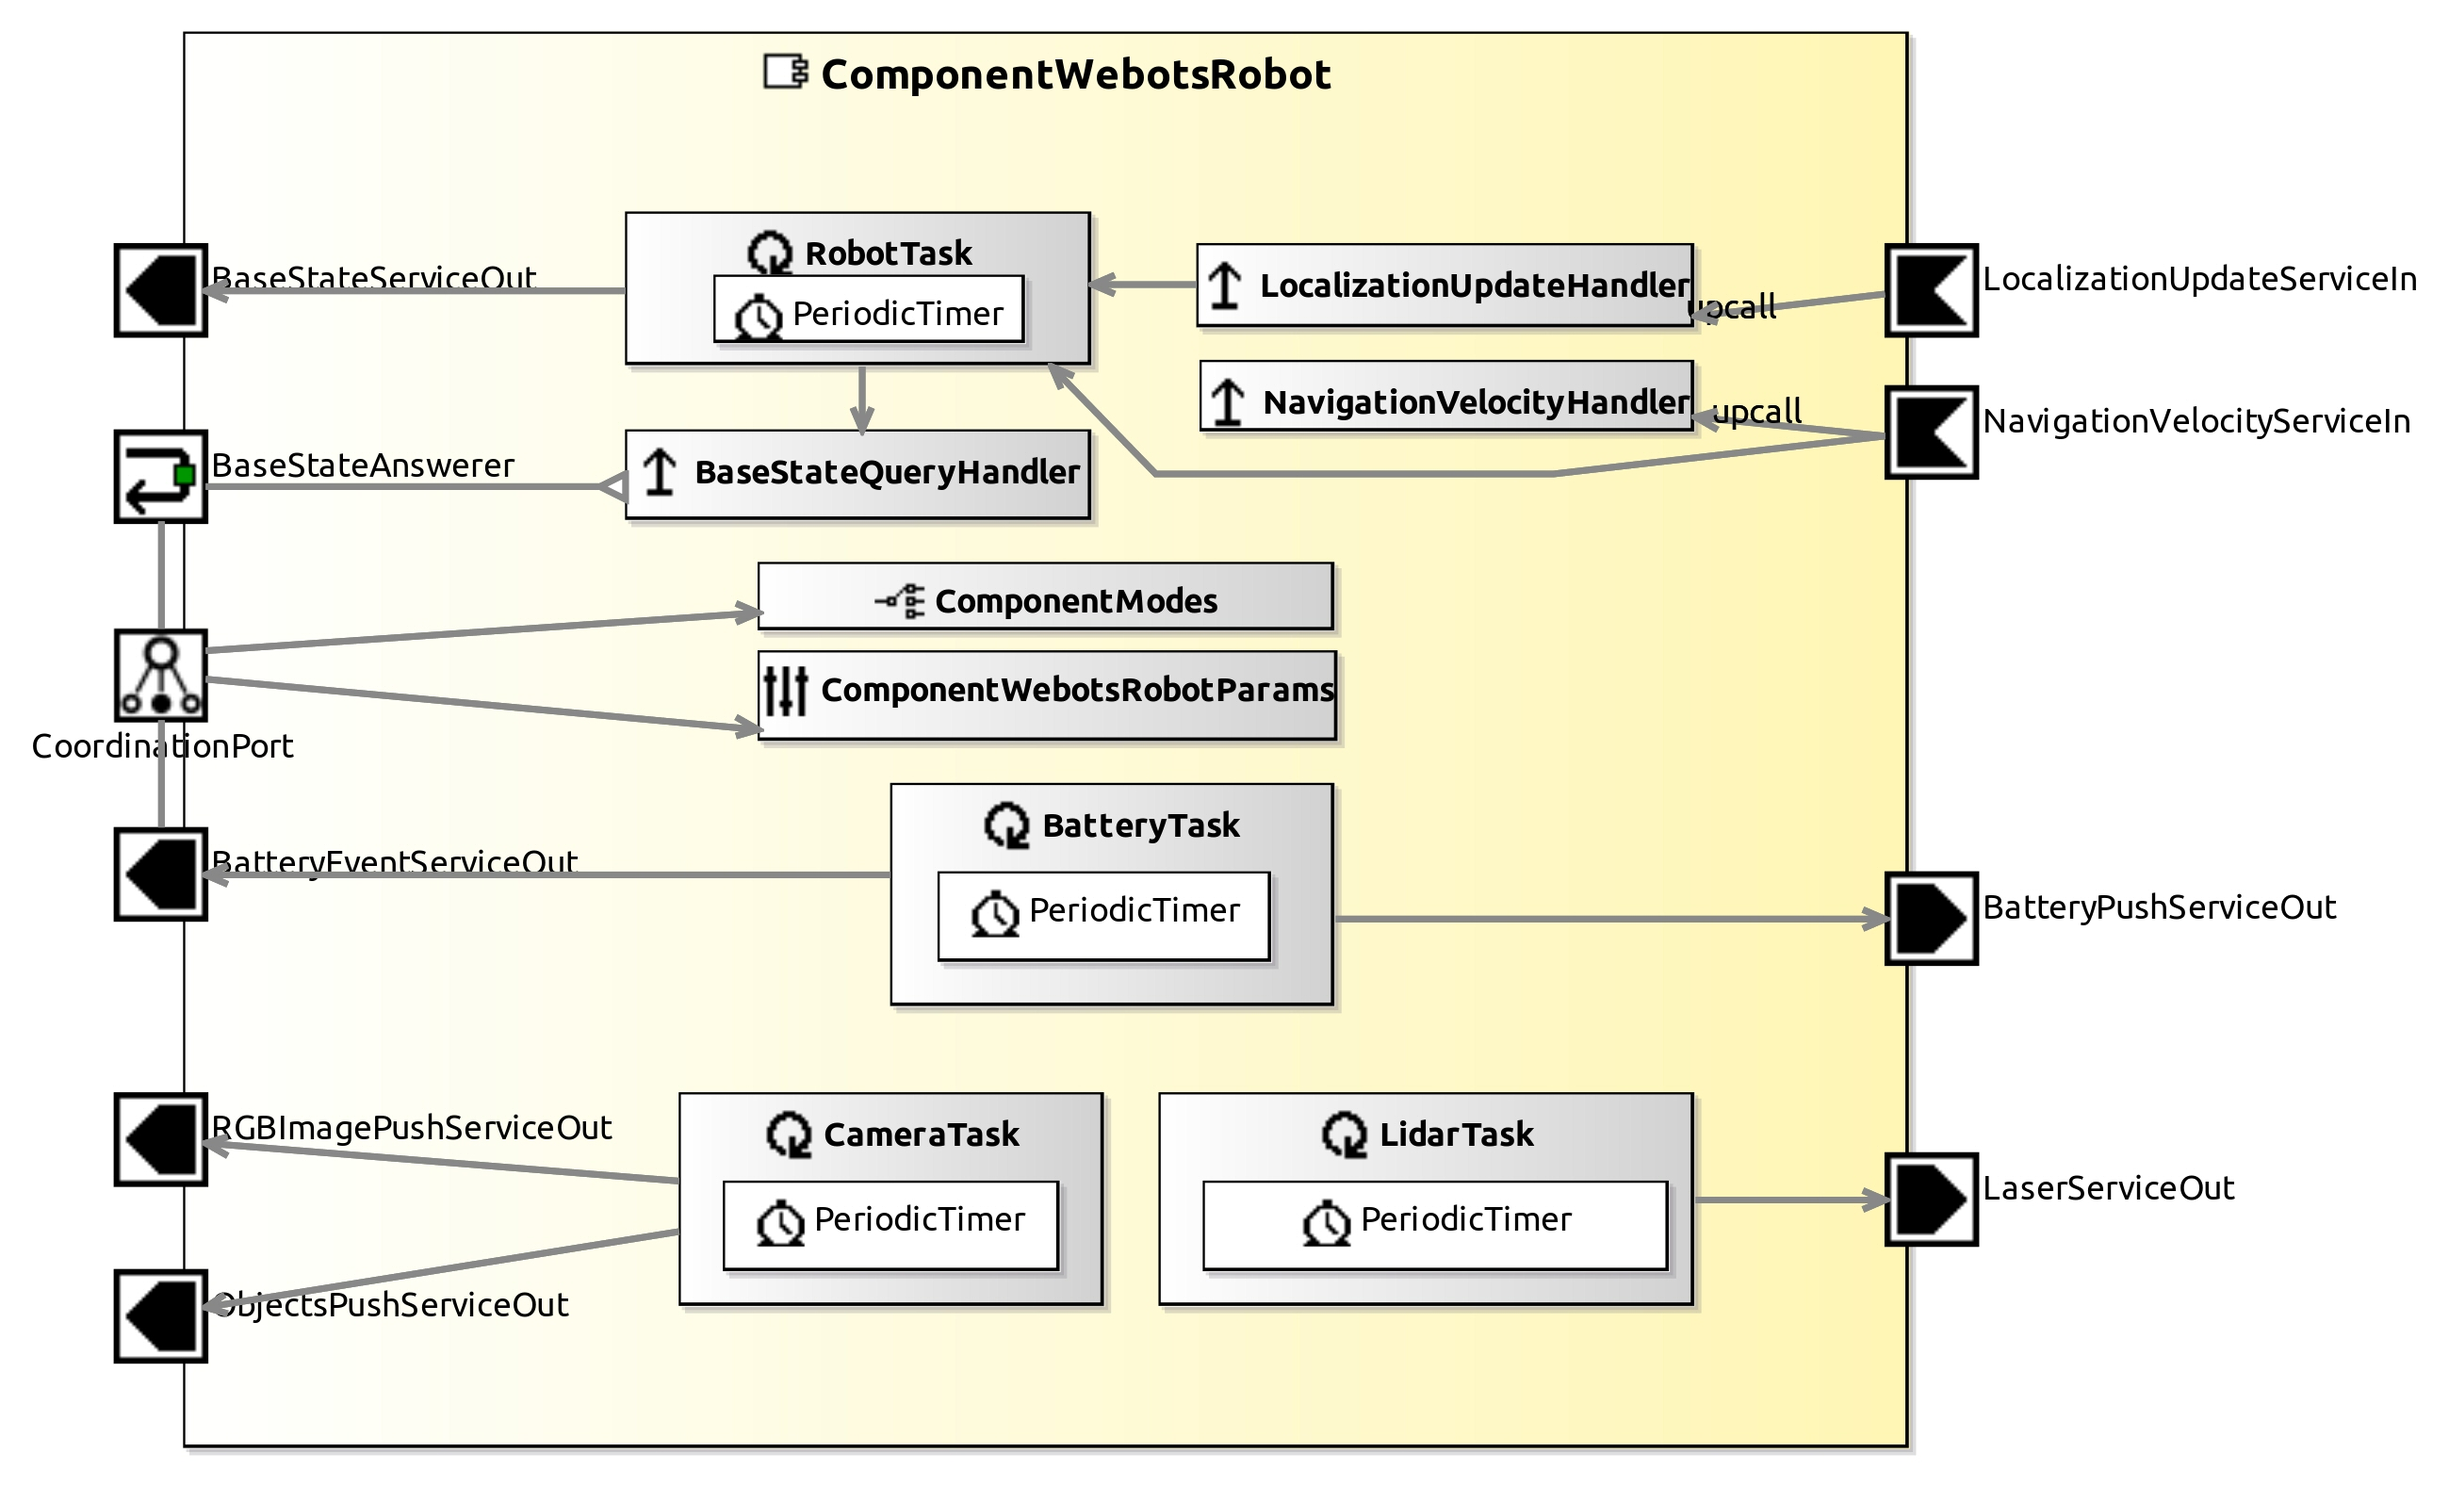
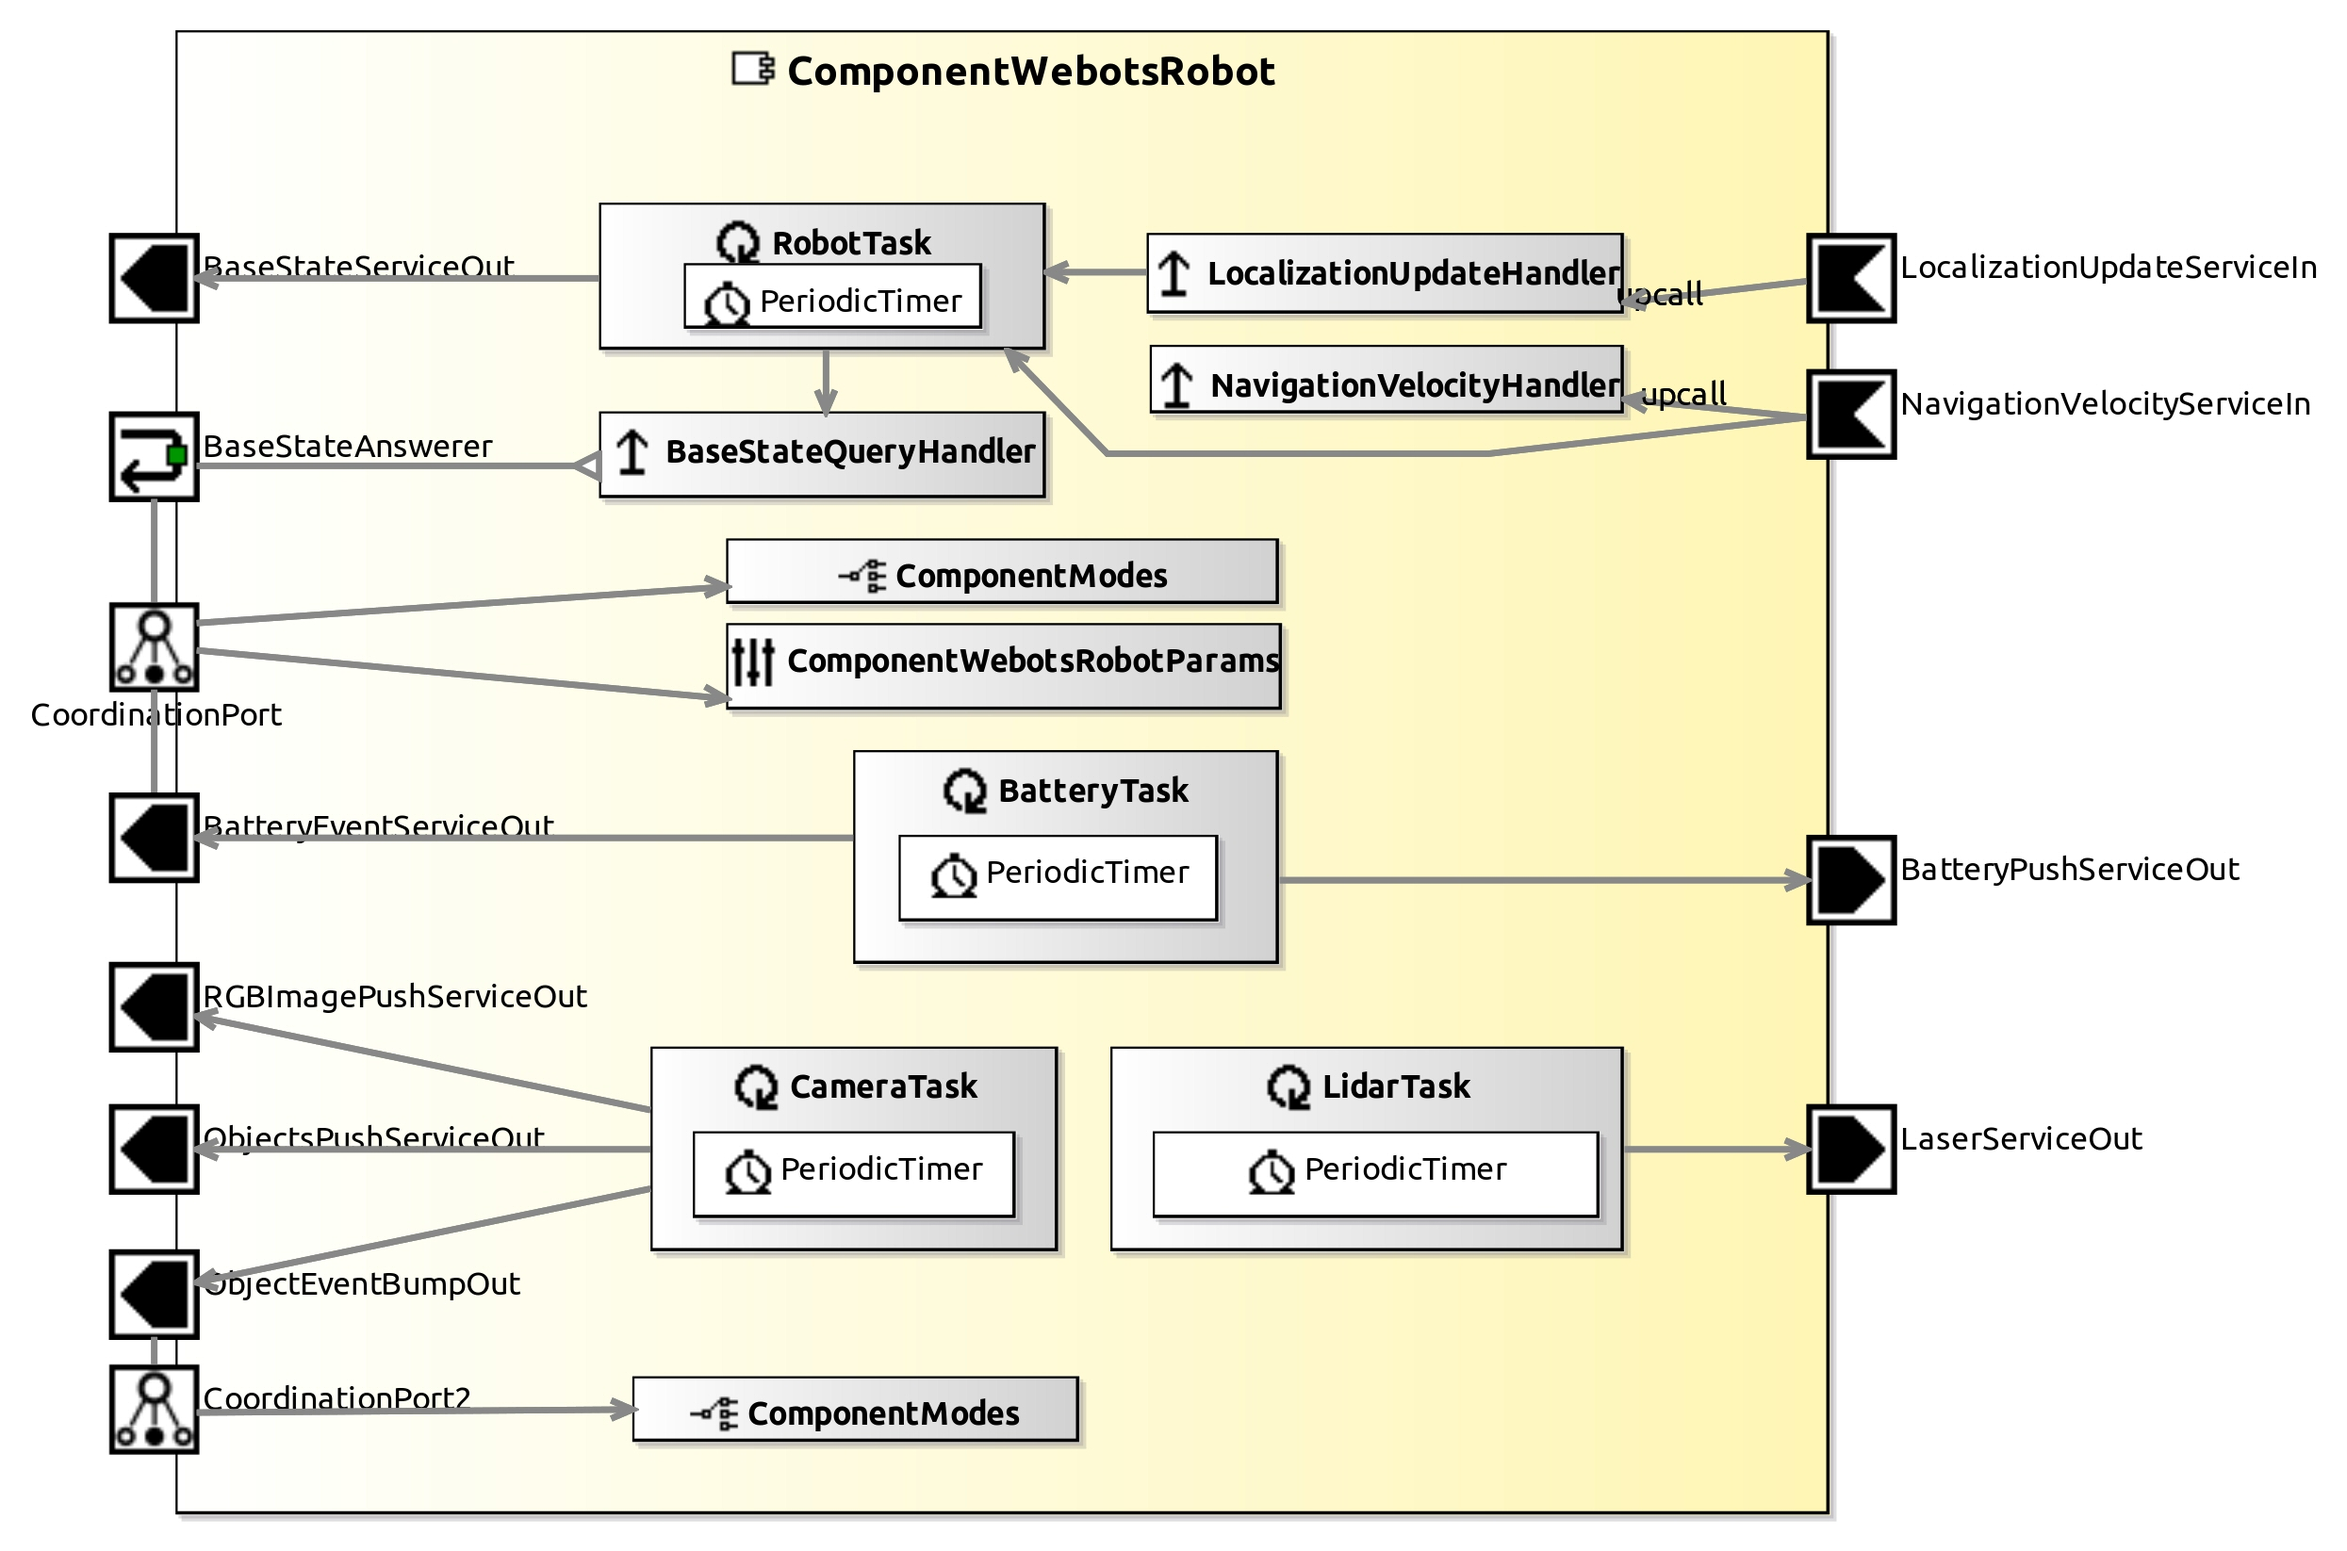
add object bump event

Changed region(s): [[0.0309, 0.1243, 0.9896, 0.9943], [0.0928, 0.0, 0.7731, 0.0621]]

diff --git a/ComponentWebotsRobot/smartsoft/src/CameraTask.cc b/ComponentWebotsRobot/smartsoft/src/CameraTask.cc
@@ -66,6 +66,10 @@ int CameraTask::on_entry()
 		return -1;
 	}
 
+  object_bump_type_ = COMP->getParameters().getCamera_properties().
+    getObject_bump_type();
+  object_bump_threshold_ = COMP->getParameters().getCamera_properties().
+    getObject_bump_threshold();
 	getCameraPoseRobotFrame();
 
 	COMP->mRobotMutex.release();
@@ -129,6 +133,7 @@ void CameraTask::recognition()
 {
 	auto robot_pose = webotsNodeToAffine3dGlobal(COMP->_supervisor->getSelf());
 	CommObjectRecognitionObjects::CommObjectRecognitionEnvironment env;
+  CommObjectRecognitionObjects::CommObjectRecognitionEventBumpState bump_state;
 	std::vector<CommObjectRecognitionObjects::
 		CommObjectRecognitionObjectProperties> objs;
 
@@ -140,6 +145,8 @@ void CameraTask::recognition()
 			obj_properties;
 		obj_properties.setObject_type(objects[i].model);
 		obj_properties.setObject_id(objects[i].id);
+
+    checkBump(bump_state, objects[i].model, objects[i].position, objects[i].id);
 
     try {
       obj_properties.setObject_simple_type(obj_str_enum.at(objects[i].model));
@@ -201,6 +208,8 @@ void CameraTask::recognition()
 				objects[i].colors[3 * j + 1], objects[i].colors[3 * j + 2]);
 		*/
 	}
+  if (bump_state.getState() == CommObjectRecognitionObjects::ObjectBumpState::BUMP)
+    objectEventBumpOutPut(bump_state);
 	env.setObjects(objs);
 	env.setIs_valid(true);
 	objectsPushServiceOutPut(env);
@@ -281,4 +290,18 @@ std::unordered_map<std::string, CommObjectRecognitionObjects::
   map["trash container"] = CommObjectRecognitionObjects::SimpleObjects::TRASHCONTAINER;
   map["pedestrian"] = CommObjectRecognitionObjects::SimpleObjects::PEDESTRIAN;
   return map;
+}
+
+void CameraTask::checkBump(CommObjectRecognitionObjects::
+  CommObjectRecognitionEventBumpState& bump_state, char* model, 
+  const double position[3], int id) const {
+  if (object_bump_type_.empty() || object_bump_type_.c_str() == model){
+    if(sqrt(position[0]*position[0] + position[1]*position[1]) < 
+      object_bump_threshold_){
+      std::vector<unsigned int> ids = bump_state.getObject_idCopy();
+      ids.push_back(id);
+      bump_state.setObject_id(ids);
+      bump_state.setState(CommObjectRecognitionObjects::ObjectBumpState::BUMP);
+    }
+  }
 }

diff --git a/ComponentWebotsRobot/smartsoft/src/ObjectEventBumpOutEventTestHandler.cc b/ComponentWebotsRobot/smartsoft/src/ObjectEventBumpOutEventTestHandler.cc
@@ -1,0 +1,31 @@
+//--------------------------------------------------------------------------
+// Code generated by the SmartSoft MDSD Toolchain
+// The SmartSoft Toolchain has been developed by:
+//  
+// Service Robotics Research Center
+// University of Applied Sciences Ulm
+// Prittwitzstr. 10
+// 89075 Ulm (Germany)
+//
+// Information about the SmartSoft MDSD Toolchain is available at:
+// www.servicerobotik-ulm.de
+//
+// This file is generated once. Modify this file to your needs. 
+// If you want the toolchain to re-generate this file, please 
+// delete it before running the code generator.
+//--------------------------------------------------------------------------
+#include "ObjectEventBumpOutEventTestHandler.hh"
+
+bool ObjectEventBumpOutEventTestHandler::testEvent(
+	CommBasicObjects::CommVoid &p,
+	CommObjectRecognitionObjects::CommObjectRecognitionEventBumpResult &r,
+	const CommObjectRecognitionObjects::CommObjectRecognitionEventBumpState &s
+) throw() {
+	r.setObject_id(s.getObject_idCopy());
+	r.setState(s.getState());
+	// fire all events (without filtering) in the default implementation
+	// implement your own (specific) event-filtering code using the event-parameter as input
+	// true means that the current event will be fired to the according client
+	// false means that the current event is ignored (it will not be communicated to the according client)
+	return true;
+}
